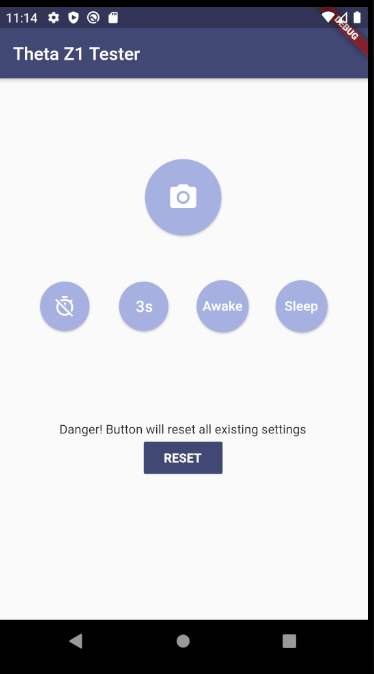
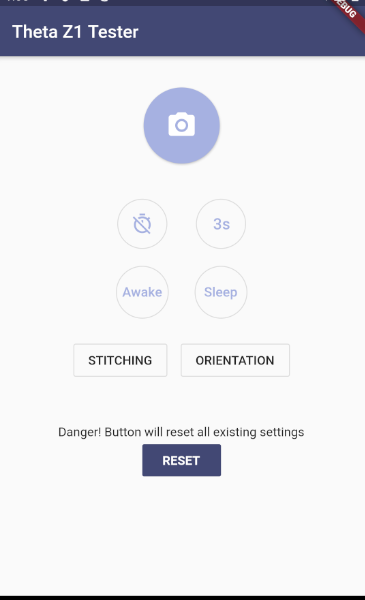
added documentation

diff --git a/lib/screens/tools_screen.dart b/lib/screens/tools_screen.dart
@@ -24,29 +24,29 @@ class ToolsScreen extends StatelessWidget {
         child: Column(
           crossAxisAlignment: CrossAxisAlignment.center,
           children: <Widget>[
-            SizedBox(
-              height: 60,
-            ),
-            MaterialButton(
-              onPressed: (){
-                takePicture();
-              },
-              padding: EdgeInsets.all(25.0),
-              shape: CircleBorder(),
-              color: Color(0xffa6b1e1),
-              child: Icon(Icons.camera_alt, color: Colors.white, size: 35,),
+            Padding(
+              padding: const EdgeInsets.only(top: 35.0),
+              child: MaterialButton(
+                onPressed: (){
+                  takePicture();
+                },
+                padding: EdgeInsets.all(25.0),
+                shape: CircleBorder(),
+                color: Color(0xffa6b1e1),
+                child: Icon(Icons.camera_alt, color: Colors.white, size: 35,),
 
+              ),
             ),
             SizedBox(
-              height: 50,
+              height: 40,
             ),
             Flexible(
               child: Row(
                 mainAxisAlignment: MainAxisAlignment.center,
                 children: <Widget>[
 
-                  CameraTool(cameraFunction: timerOff, cameraPadding: EdgeInsets.all(15.0), cameraWidget: Icon(Icons.timer_off, color: Colors.white, size: 25,),),
-                  CameraTool(cameraFunction: timerThree, cameraPadding: EdgeInsets.all(15.0), cameraWidget: Icon(Icons.timer_3, color: Colors.white, size: 25,),),
+                  CameraTool(cameraFunction: timerOff, cameraPadding: EdgeInsets.all(15.0), cameraWidget: Icon(Icons.timer_off, color: Color(0xffa6b1e1), size: 25,),),
+                  CameraTool(cameraFunction: timerThree, cameraPadding: EdgeInsets.all(15.0), cameraWidget: Icon(Icons.timer_3, color: Color(0xffa6b1e1), size: 25,),),
 
 
                 ],
@@ -58,8 +58,8 @@ class ToolsScreen extends StatelessWidget {
 
               mainAxisAlignment: MainAxisAlignment.center,
               children: <Widget>[
-                CameraTool(cameraFunction: sleepOff, cameraPadding: EdgeInsets.all(20.0), cameraWidget: Text('Awake', style: TextStyle(color: Colors.white, fontSize: 15),),),
-                CameraTool(cameraFunction: sleep, cameraPadding: EdgeInsets.all(20.0), cameraWidget: Text('Sleep', style: TextStyle(color: Colors.white, fontSize: 15),),),
+                CameraTool(cameraFunction: sleepOff, cameraPadding: EdgeInsets.all(20.0), cameraWidget: Text('Awake', style: TextStyle(color: Color(0xffa6b1e1), fontSize: 15),),),
+                CameraTool(cameraFunction: sleep, cameraPadding: EdgeInsets.all(20.0), cameraWidget: Text('Sleep', style: TextStyle(color: Color(0xffa6b1e1), fontSize: 15),),),
               ],
             ),
             SizedBox(
@@ -68,17 +68,23 @@ class ToolsScreen extends StatelessWidget {
             Row(
               mainAxisAlignment: MainAxisAlignment.center,
               children: <Widget>[
-                FlatButton(
-                  onPressed: (){
-                    Navigator.pushNamed(context, "/stitching");
-                  },
-                  child: Text("STITCHING"),
+                Padding(
+                  padding: const EdgeInsets.all(8.0),
+                  child: OutlineButton(
+                    onPressed: (){
+                      Navigator.pushNamed(context, "/stitching");
+                    },
+                    child: Text("STITCHING"),
+                  ),
                 ),
-                FlatButton(
-                  onPressed: (){
-                    Navigator.pushNamed(context, "/orientation");
-                  },
-                  child: Text("ORIENTATION"),
+                Padding(
+                  padding: const EdgeInsets.all(8.0),
+                  child: OutlineButton(
+                    onPressed: (){
+                      Navigator.pushNamed(context, "/orientation");
+                    },
+                    child: Text("ORIENTATION"),
+                  ),
                 ),
               ],
             ),

diff --git a/lib/screens/orientation_screen.dart b/lib/screens/orientation_screen.dart
@@ -1,10 +1,58 @@
 import 'package:flutter/material.dart';
+import 'package:caitlyn_tester/commands/orientation_apply.dart';
+import 'package:caitlyn_tester/commands/orientation_disapply.dart';
+import 'package:caitlyn_tester/commands/orientation_applyAuto.dart';
+import 'package:caitlyn_tester/commands/orientation_applySave.dart';
+import 'package:caitlyn_tester/commands/orientation_applyLoad.dart';
 
 class OrientationScreen extends StatelessWidget {
   @override
   Widget build(BuildContext context) {
-    return Container(
-      child: Text('Orientation'),
+    return Scaffold(
+      appBar: AppBar(title: Text('Orientation'),
+      ),
+      body: Column(
+
+        children: <Widget>[
+          Row(
+            mainAxisAlignment: MainAxisAlignment.center,
+            children: <Widget>[
+              Button(buttonTitle: "Apply", buttonFunction: orientationApply,),
+              Button(buttonTitle: "ApplyAuto", buttonFunction: orientationApplyAuto,),
+            ],
+          ),
+          Row(
+            mainAxisAlignment: MainAxisAlignment.center,
+            children: <Widget>[
+              Button(buttonTitle: "ApplySave", buttonFunction: orientationApplySave,),
+              Button(buttonTitle: "ApplyLoad", buttonFunction: orientationApplyLoad,),
+            ],
+          ),
+          Row(
+            mainAxisAlignment: MainAxisAlignment.center,
+            children: <Widget>[
+              Button(buttonTitle: "Disapply", buttonFunction: orientationDisapply,),
+
+            ],
+          )
+        ],
+      )
+    );
+  }
+}
+
+class Button extends StatelessWidget {
+  String buttonTitle;
+  Function buttonFunction;
+  Button({this.buttonTitle, this.buttonFunction});
+
+  @override
+  Widget build(BuildContext context) {
+    return MaterialButton(
+        child: Text(buttonTitle),
+        onPressed: (){
+          buttonFunction();
+        }
     );
   }
 }

diff --git a/lib/commands/orientation_applyAuto.dart b/lib/commands/orientation_applyAuto.dart
@@ -1,0 +1,27 @@
+import 'package:flutter/material.dart';
+import 'dart:async';
+import 'dart:convert';
+import 'package:http/http.dart' as http;
+
+Future<http.Response> orientationApplyAuto() async {
+  var url = 'http://192.168.1.1/osc/commands/execute';
+
+  Map data = {
+    'name': 'camera.setOptions',
+    'parameters': {
+      'options': {
+        "_topBottomCorrection": "ApplyAuto",
+      }
+    }
+  };
+
+  var body = jsonEncode(data);
+
+  var response = await http.post(url,
+      headers: {"Content-Type": "application/json;charset=utf-8"},
+      body: body
+  );
+  print('set orientation applyAuto');
+
+  return response;
+}

diff --git a/lib/commands/orientation_applyLoad.dart b/lib/commands/orientation_applyLoad.dart
@@ -1,0 +1,27 @@
+import 'package:flutter/material.dart';
+import 'dart:async';
+import 'dart:convert';
+import 'package:http/http.dart' as http;
+
+Future<http.Response> orientationApplyLoad() async {
+  var url = 'http://192.168.1.1/osc/commands/execute';
+
+  Map data = {
+    'name': 'camera.setOptions',
+    'parameters': {
+      'options': {
+        "_topBottomCorrection": "ApplyLoad",
+      }
+    }
+  };
+
+  var body = jsonEncode(data);
+
+  var response = await http.post(url,
+      headers: {"Content-Type": "application/json;charset=utf-8"},
+      body: body
+  );
+  print('set orientation applyLoad');
+
+  return response;
+}

diff --git a/lib/commands/orientation_applySave.dart b/lib/commands/orientation_applySave.dart
@@ -1,0 +1,27 @@
+import 'package:flutter/material.dart';
+import 'dart:async';
+import 'dart:convert';
+import 'package:http/http.dart' as http;
+
+Future<http.Response> orientationApplySave() async {
+  var url = 'http://192.168.1.1/osc/commands/execute';
+
+  Map data = {
+    'name': 'camera.setOptions',
+    'parameters': {
+      'options': {
+        "_topBottomCorrection": "ApplySave",
+      }
+    }
+  };
+
+  var body = jsonEncode(data);
+
+  var response = await http.post(url,
+      headers: {"Content-Type": "application/json;charset=utf-8"},
+      body: body
+  );
+  print('set orientation applySave');
+
+  return response;
+}

diff --git a/lib/commands/orientation_disapply.dart b/lib/commands/orientation_disapply.dart
@@ -1,0 +1,27 @@
+import 'package:flutter/material.dart';
+import 'dart:async';
+import 'dart:convert';
+import 'package:http/http.dart' as http;
+
+Future<http.Response> orientationDisapply() async {
+  var url = 'http://192.168.1.1/osc/commands/execute';
+
+  Map data = {
+    'name': 'camera.setOptions',
+    'parameters': {
+      'options': {
+        "_topBottomCorrection": "Disapply",
+      }
+    }
+  };
+
+  var body = jsonEncode(data);
+
+  var response = await http.post(url,
+      headers: {"Content-Type": "application/json;charset=utf-8"},
+      body: body
+  );
+  print('disapply orientation');
+
+  return response;
+}

diff --git a/lib/commands/orientation_apply.dart b/lib/commands/orientation_apply.dart
@@ -1,0 +1,27 @@
+import 'package:flutter/material.dart';
+import 'dart:async';
+import 'dart:convert';
+import 'package:http/http.dart' as http;
+
+Future<http.Response> orientationApply() async {
+  var url = 'http://192.168.1.1/osc/commands/execute';
+
+  Map data = {
+    'name': 'camera.setOptions',
+    'parameters': {
+      'options': {
+        "_topBottomCorrection": "Apply",
+      }
+    }
+  };
+
+  var body = jsonEncode(data);
+
+  var response = await http.post(url,
+      headers: {"Content-Type": "application/json;charset=utf-8"},
+      body: body
+  );
+  print('apply orientation');
+
+  return response;
+}

diff --git a/lib/commands/stitching_dynamicAuto.dart b/lib/commands/stitching_dynamicAuto.dart
@@ -21,7 +21,7 @@ Future<http.Response> stitchingDynamicAuto() async {
       headers: {"Content-Type": "application/json;charset=utf-8"},
       body: body
   );
-  print('set stitching');
+  print('set stitching dynamicAuto');
 
   return response;
 }

diff --git a/lib/commands/stitching_dynamicLoad.dart b/lib/commands/stitching_dynamicLoad.dart
@@ -21,7 +21,7 @@ Future<http.Response> stitchingDynamicLoad() async {
       headers: {"Content-Type": "application/json;charset=utf-8"},
       body: body
   );
-  print('set stitching');
+  print('set stitching dynamicLoad');
 
   return response;
 }

diff --git a/lib/commands/stitching_dynamicSave.dart b/lib/commands/stitching_dynamicSave.dart
@@ -21,7 +21,7 @@ Future<http.Response> stitchingDynamicSave() async {
       headers: {"Content-Type": "application/json;charset=utf-8"},
       body: body
   );
-  print('set stitching');
+  print('set stitching dynamicSave');
 
   return response;
 }

diff --git a/lib/commands/stitching_static.dart b/lib/commands/stitching_static.dart
@@ -21,7 +21,7 @@ Future<http.Response> stitchingStatic() async {
       headers: {"Content-Type": "application/json;charset=utf-8"},
       body: body
   );
-  print('set stitching');
+  print('set stitching static');
 
   return response;
 }

diff --git a/lib/commands/stitching_none.dart b/lib/commands/stitching_none.dart
@@ -21,7 +21,7 @@ Future<http.Response> stitchingNone() async {
       headers: {"Content-Type": "application/json;charset=utf-8"},
       body: body
   );
-  print('set stitching');
+  print('set stitching none');
 
   return response;
 }
